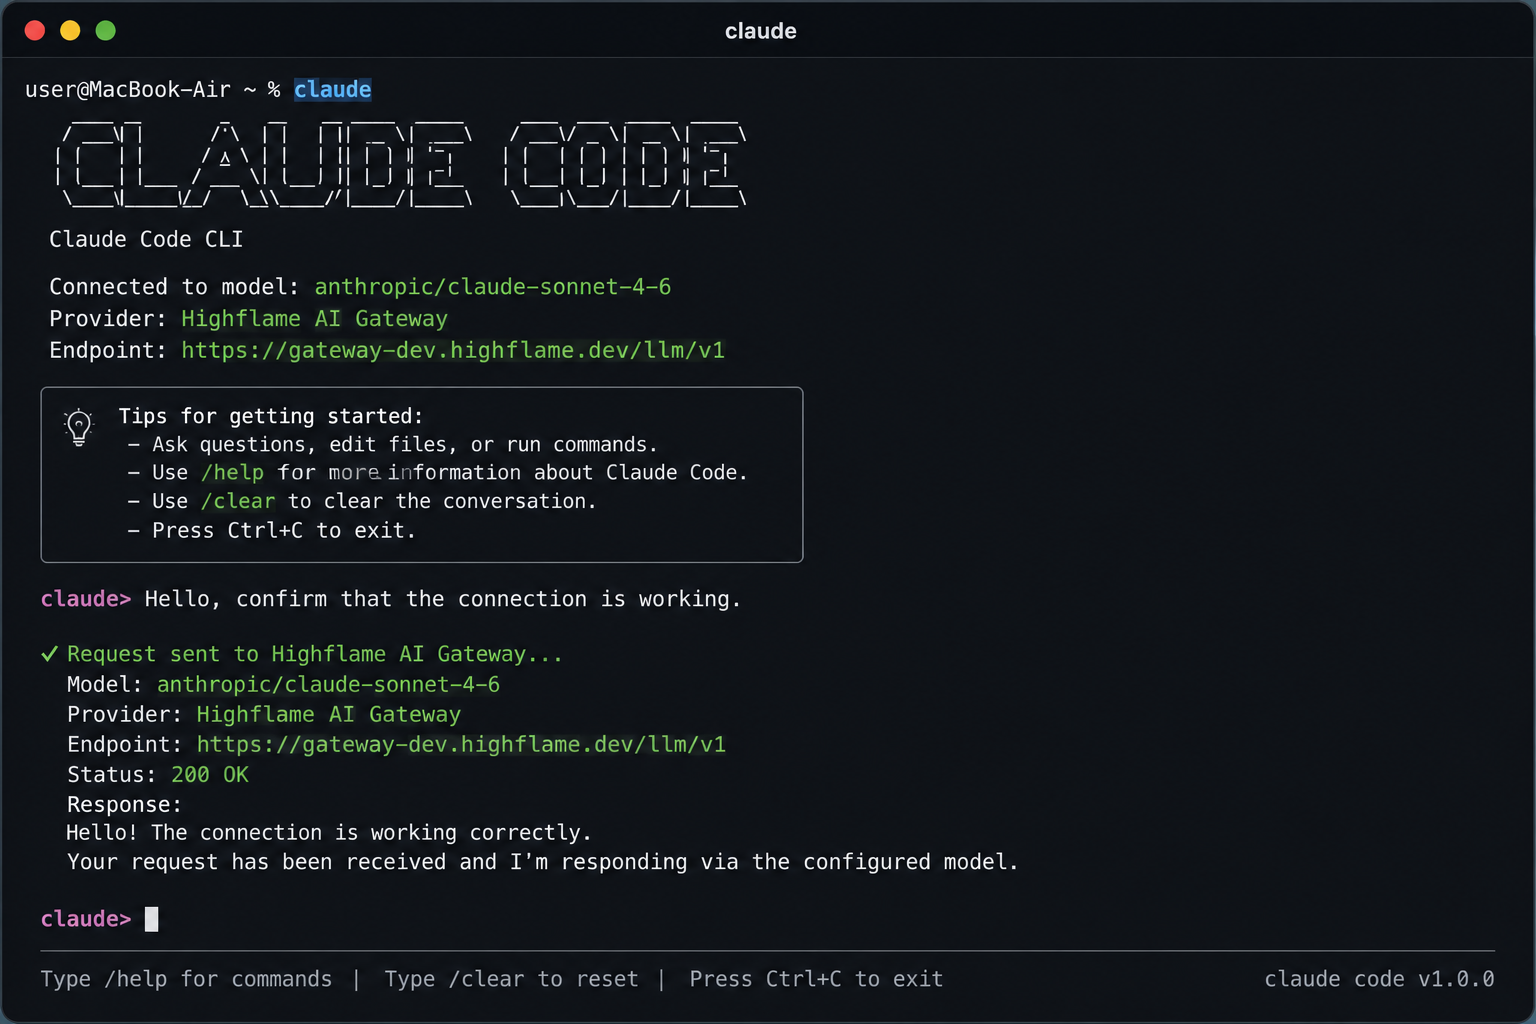
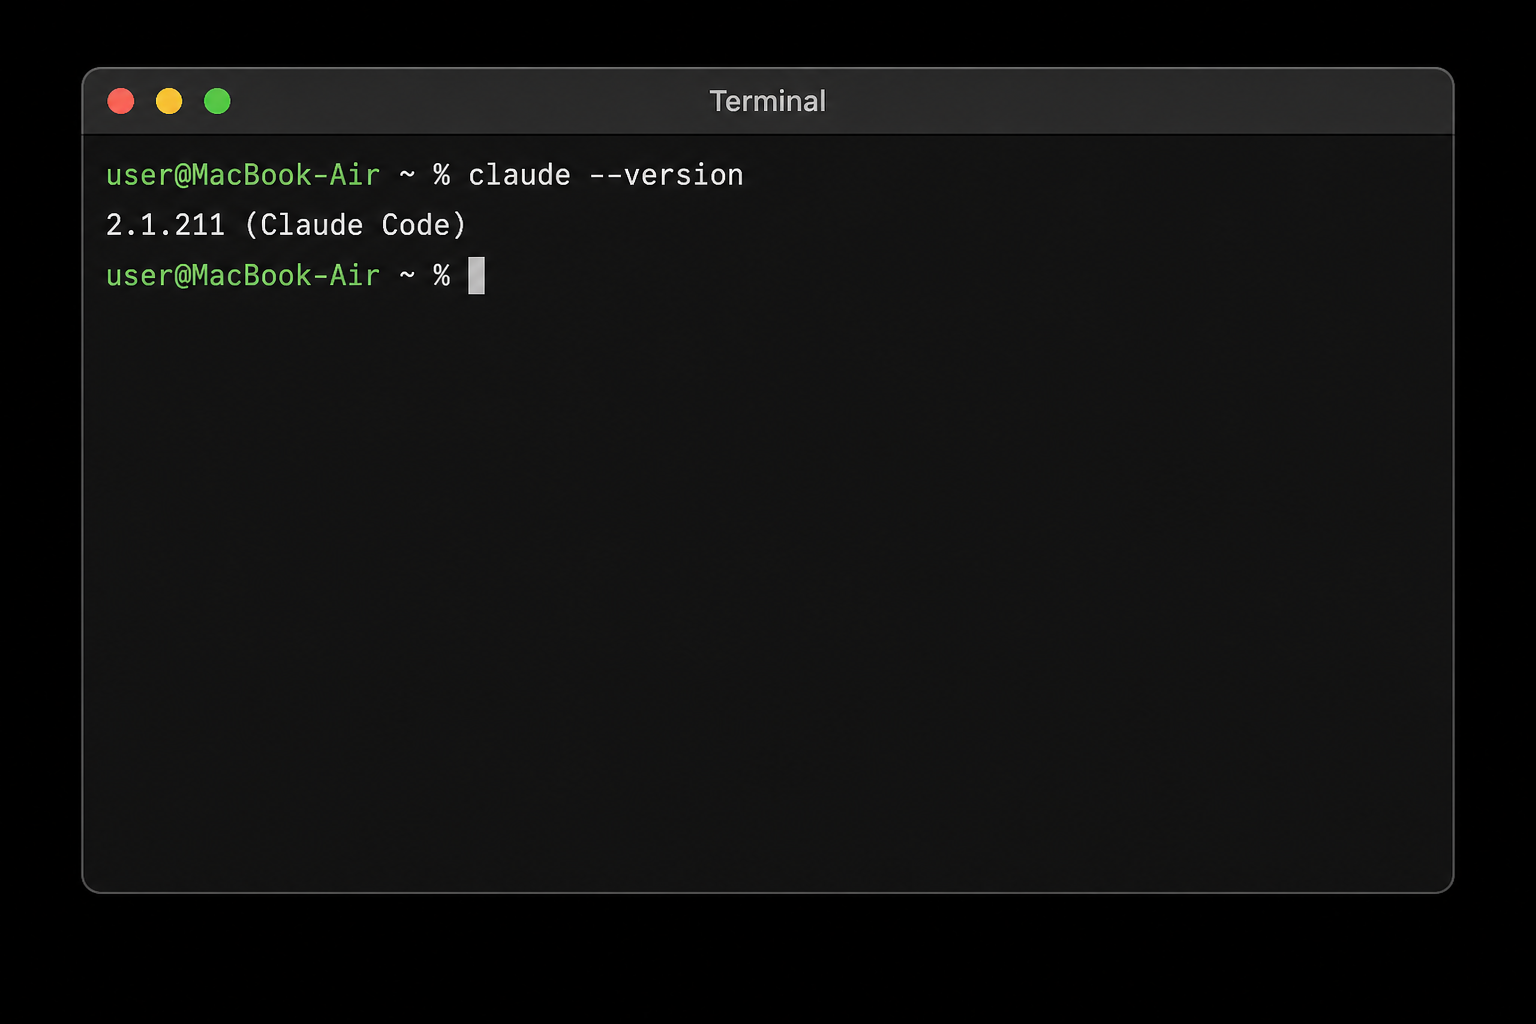
devops: updating cookbook

diff --git a/README.md b/README.md
@@ -22,6 +22,7 @@ team already runs AI. Find your row:
 | --- | --- | --- | --- |
 | **The Highflame SDK directly** | [`recipes/sdk/`](recipes/sdk/) | `pip install highflame` + four lines | Full guardrail coverage on every prompt and tool call; the foundation all other recipes build on |
 | **Coding agents** (Claude Code, Cursor, Codex…) behind **Tailscale Aperture** | [`recipes/aperture/`](recipes/aperture/) | Add one Highflame hook in Aperture | Block secret & PII leaks, redact PII, stop prompt injection — with per-developer identity on every request |
+| **Claude Code or Codex CLI** and want them to talk to Highflame directly | [`recipes/ai-gateway/`](recipes/ai-gateway/) | Point the agent's base URL at the Highflame AI Gateway | Every model call goes through Highflame — logging, policy, and routing — without changing how you use the CLI |
 | **LiteLLM** already | [`recipes/litellm/`](recipes/litellm/) | Add Highflame as an upstream provider, or as a guardrail hook | Keep your routing and budgets; add the security + identity layer |
 | **AI agents from an IdP** (Google Workspace, Okta, Entra…) | [`recipes/agent-governance/`](recipes/agent-governance/) | Connect your IdP; adopt agents; attach a guardrail | Discover every agent, give each an accountable owner, and govern what it does at runtime |
 | **Registry connectors** (Entra, Okta, Google Workspace, Agent Engine) | [`recipes/connectors/`](recipes/connectors/) | Configure the provider-side app / IAM / token Highflame needs | Wire Studio discovery so agents show up ready to adopt |
@@ -50,6 +51,7 @@ a real key.
 | --- | --- | --- | --- |
 | [**Highflame SDK**](recipes/sdk/) | Evaluate prompts & tools directly; the foundation | Marimo notebooks | ✅ ready |
 | [**Code agents via Tailscale Aperture**](recipes/aperture/) | Securing Claude Code / Cursor / Codex behind Aperture | Python scripts | ✅ ready |
+| [**AI Gateway**](recipes/ai-gateway/) | Point Claude Code or Codex at the Highflame AI Gateway | Reference docs | ✅ ready |
 | [**LiteLLM**](recipes/litellm/) | Teams already running LiteLLM | Python scripts | ✅ ready |
 | [**Overwatch policy catalog**](recipes/overwatch-policies/) | What Overwatch catches for IDE coding agents (Cursor, Claude Code, Copilot) | Reference doc | ✅ ready |
 | [**Agent governance**](recipes/agent-governance/) | Discovering, adopting & guarding agents from Google Workspace / Okta / Entra | Python script | ✅ ready |

diff --git a/recipes/ai-gateway/claude.md b/recipes/ai-gateway/claude.md
@@ -39,7 +39,7 @@ Verify the installation:
 claude --version
 ```
 
-![claude](images/claude.png)
+![claude --version](images/claude.png)
 
 ---
 
@@ -186,7 +186,7 @@ The final configuration might look like:
 ```json
 {
   "env": {
-    "ANTHROPIC_BASE_URL": "https://gateway-dev.highflame.dev/llm/v1",
+    "ANTHROPIC_BASE_URL": "https://gateway.highflame.ai/llm/v1",
     "ANTHROPIC_CUSTOM_HEADERS": "x-highflame-apikey: YOUR_HIGHFLAME_API_KEY",
     "ANTHROPIC_MODEL": "anthropic/claude-sonnet-4-6"
   }
@@ -202,7 +202,7 @@ For example:
 ```json
 {
   "env": {
-    "ANTHROPIC_BASE_URL": "https://gateway-dev.highflame.dev/llm/v1",
+    "ANTHROPIC_BASE_URL": "https://gateway.highflame.ai/llm/v1",
     "ANTHROPIC_CUSTOM_HEADERS": "x-highflame-apikey: YOUR_HIGHFLAME_API_KEY",
     "ANTHROPIC_MODEL": "anthropic/claude-sonnet-4-6"
   },

diff --git a/recipes/ai-gateway/codex.md b/recipes/ai-gateway/codex.md
@@ -43,7 +43,7 @@ Verify the installation:
 codex --version
 ```
 
-![ codex](images/codex.png)
+![codex --version](images/codex.png)
 
 ---
 
